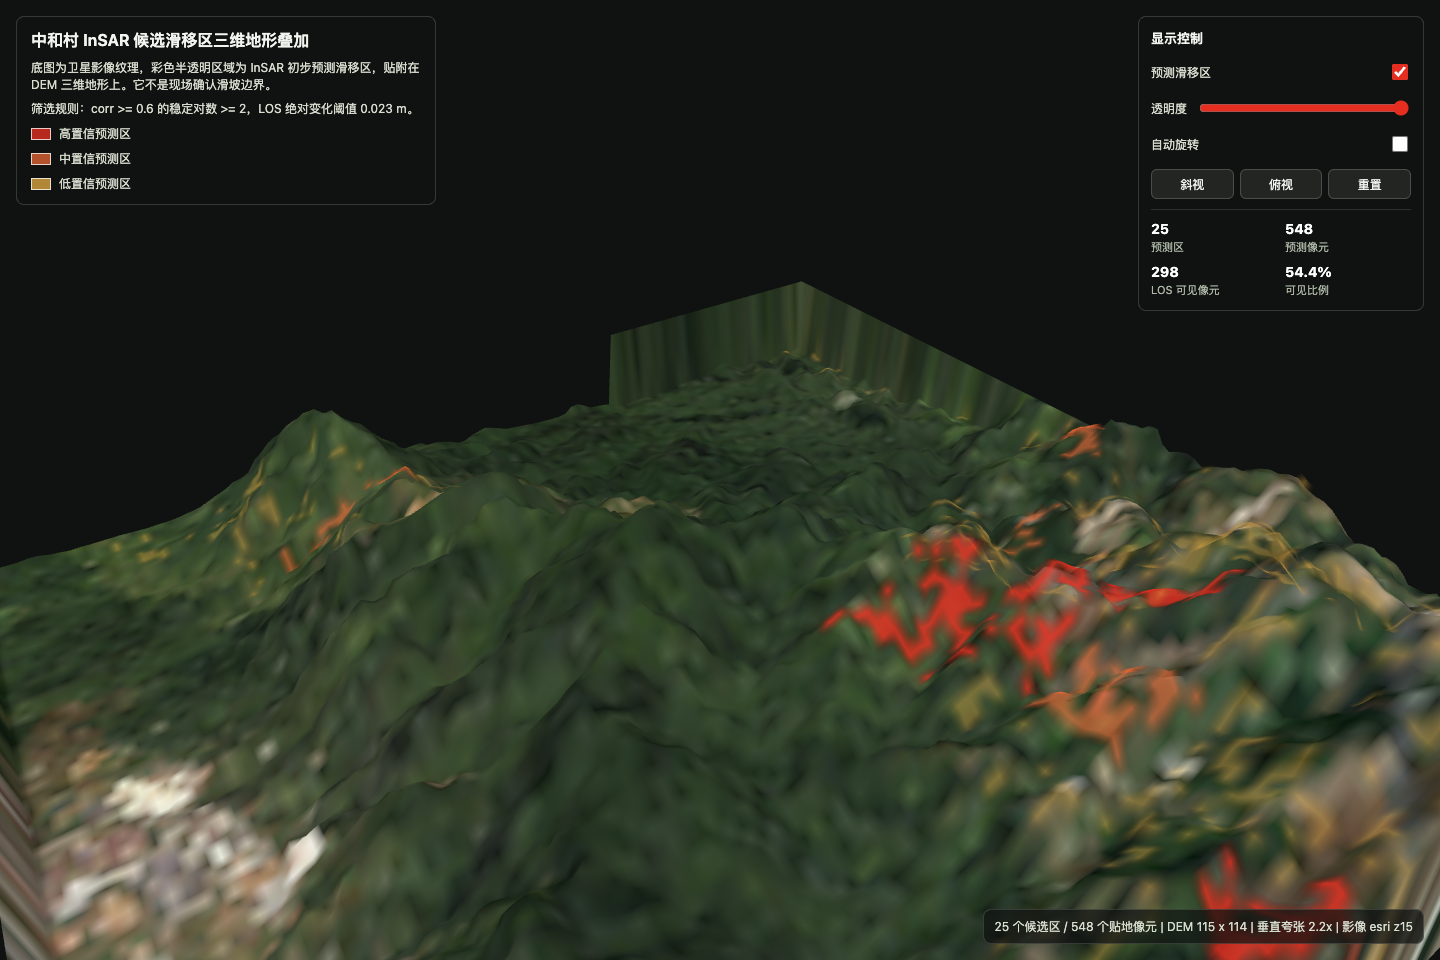
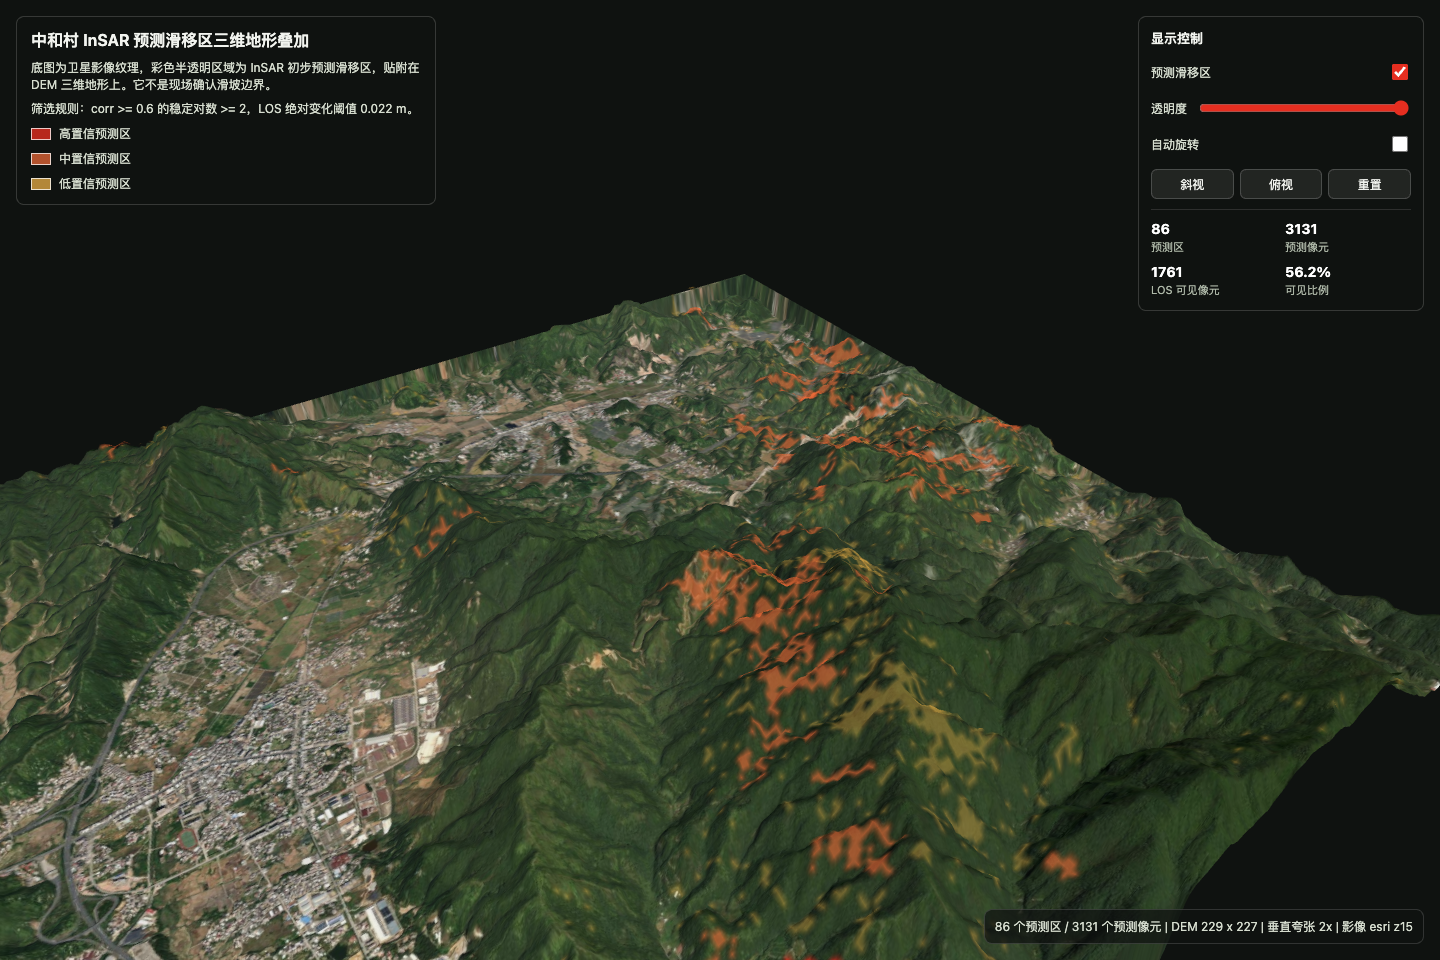
Upgrade preview to 10km high-resolution imagery

diff --git a/README.md b/README.md
@@ -1,17 +1,24 @@
 # Zhonghe Village InSAR 3D Slip Prediction Preview
 
-This is a static 3D preview of preliminary InSAR-predicted slope slip zones for Zhonghe Village, Shifang Town, Wuping County, Fujian, China.
+Interactive 10 km x 10 km 3D preview of preliminary InSAR-predicted slope slip zones for Zhonghe Village, Shifang Town, Wuping County, Fujian, China.
 
-Open the GitHub Pages site to view the interactive terrain overlay.
+GitHub Pages:
 
-## Layers
+https://yaron9.github.io/zhonghe-insar-3d/
 
-- Satellite imagery texture draped on DEM terrain
-- Preliminary InSAR slip prediction zones
-- Confidence colors:
-  - Red: high confidence
-  - Orange: medium confidence
-  - Yellow: low confidence
+## Current Version
+
+- AOI: 10 km x 10 km
+- Terrain: DEM mesh, 229 x 227 grid, 2.0x vertical exaggeration
+- Imagery: Esri World Imagery z15, external 4096 px texture
+- Prediction zones: 86 zones, 3131 pixels
+- LOS-visible candidate pixels: 1761, about 56.2%
+
+## Confidence Colors
+
+- Red: high confidence, 1 zone / 23 pixels
+- Orange: medium confidence, 39 zones / 1658 pixels
+- Yellow: low confidence, 46 zones / 1450 pixels
 
 ## Important Note
 